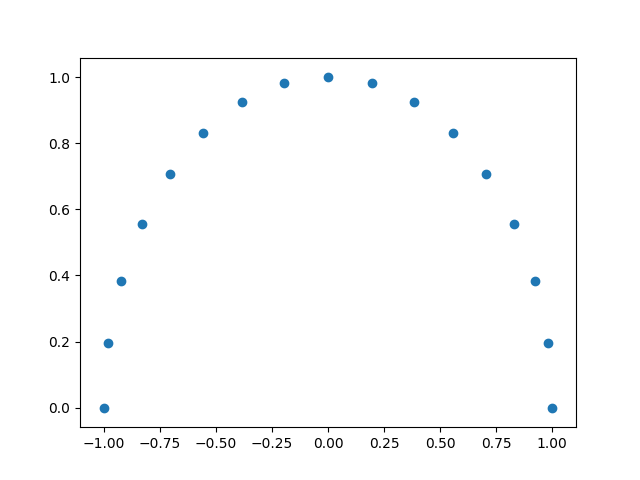
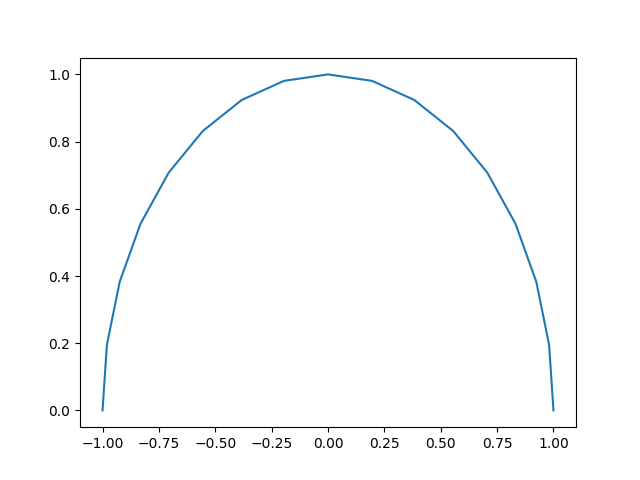
updated figure01

diff --git a/atapChapter02.py b/atapChapter02.py
@@ -4,13 +4,23 @@ import matplotlib
 matplotlib.use('Agg')
 import matplotlib.pyplot as plt
 
+# Any interval [a,b] can be scaled to [-1,1] so we will focus on [-1,1]. 
+
+# n is just a positive integer, here it is chosen to be the same value as given in the text. 
 n = 16
 
+# tt is a numpy array of n+1 equally spaced points between 0 and pi, including 0 and pi.
 tt = np.linspace(0,math.pi,n+1)
 
+# zz is an array of the (2n)th roots of unity in the upper half of the complex plane.
 zz = np.exp(1j*tt)
 
-plt.plot(zz,'.-k')
+# Here we will initialize our figure and subplots for matplotlib.
+fig,k = plt.subplots()
 
+# This will build our desired plot as shown in figure01 on page 7 of the text.
+k.plot(np.real(zz),np.imag(zz))
+
+# This will save our plot to figure01.png
 plt.savefig('figure01.png')
 
